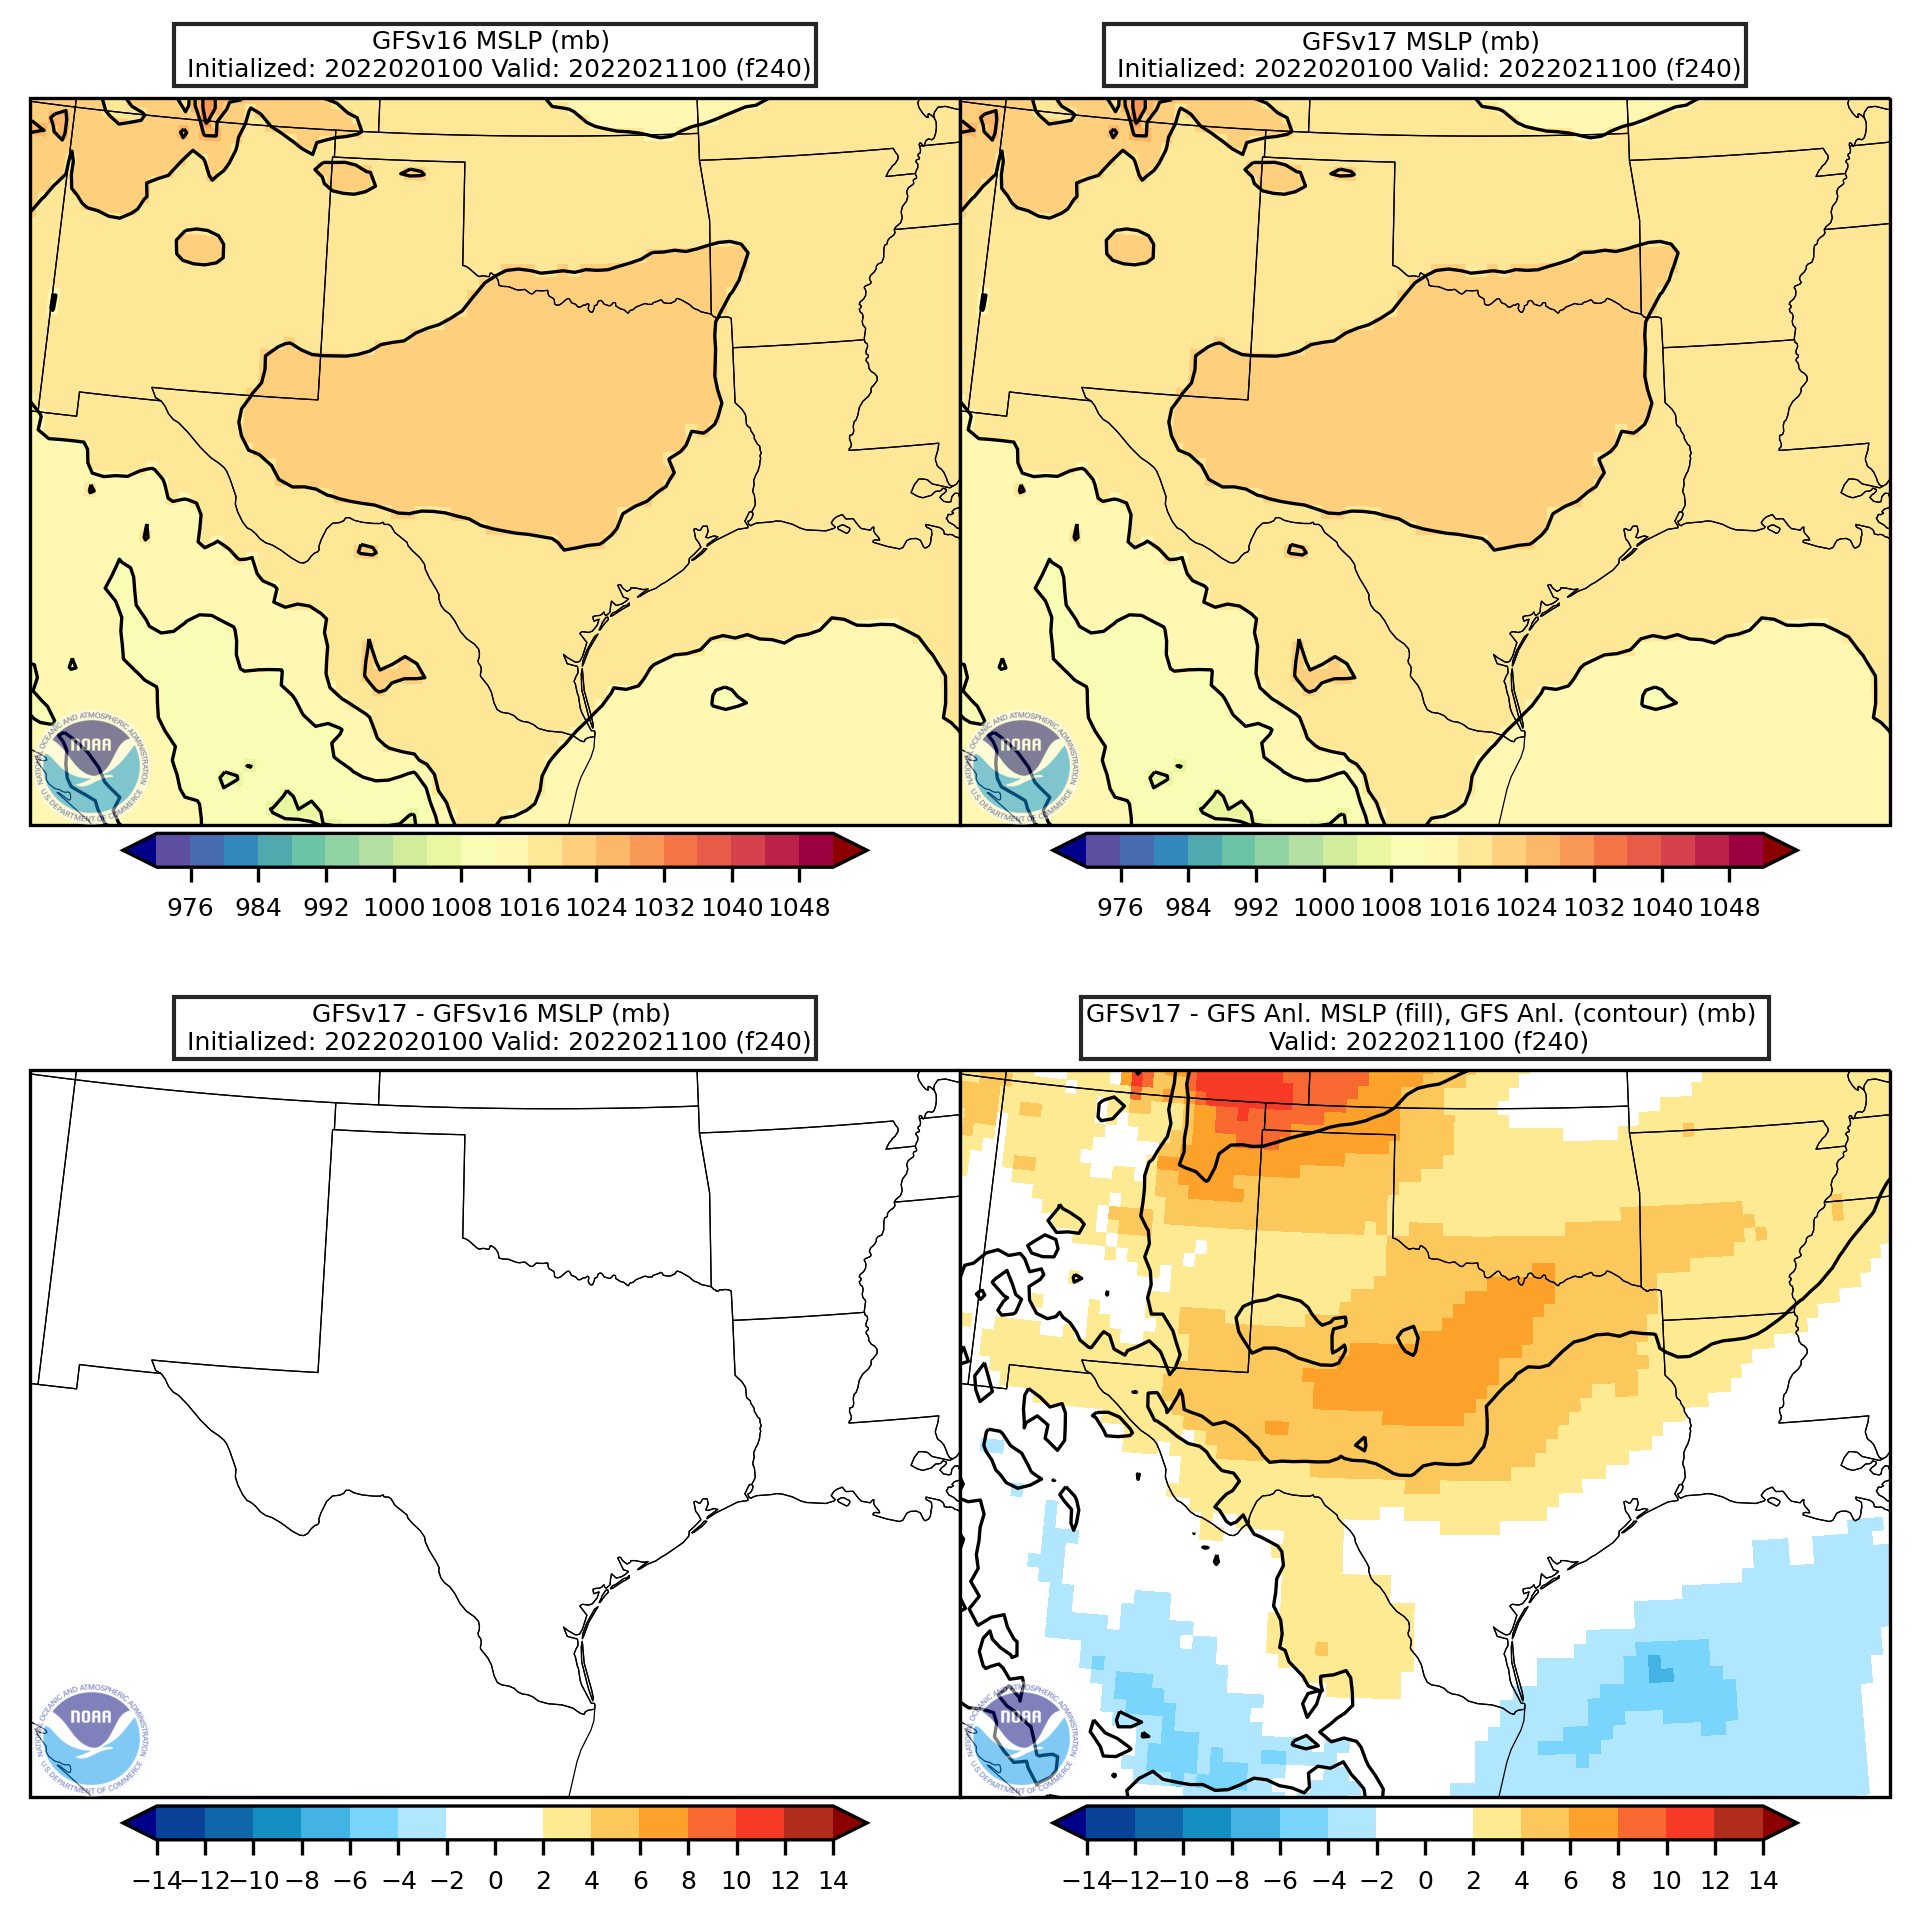
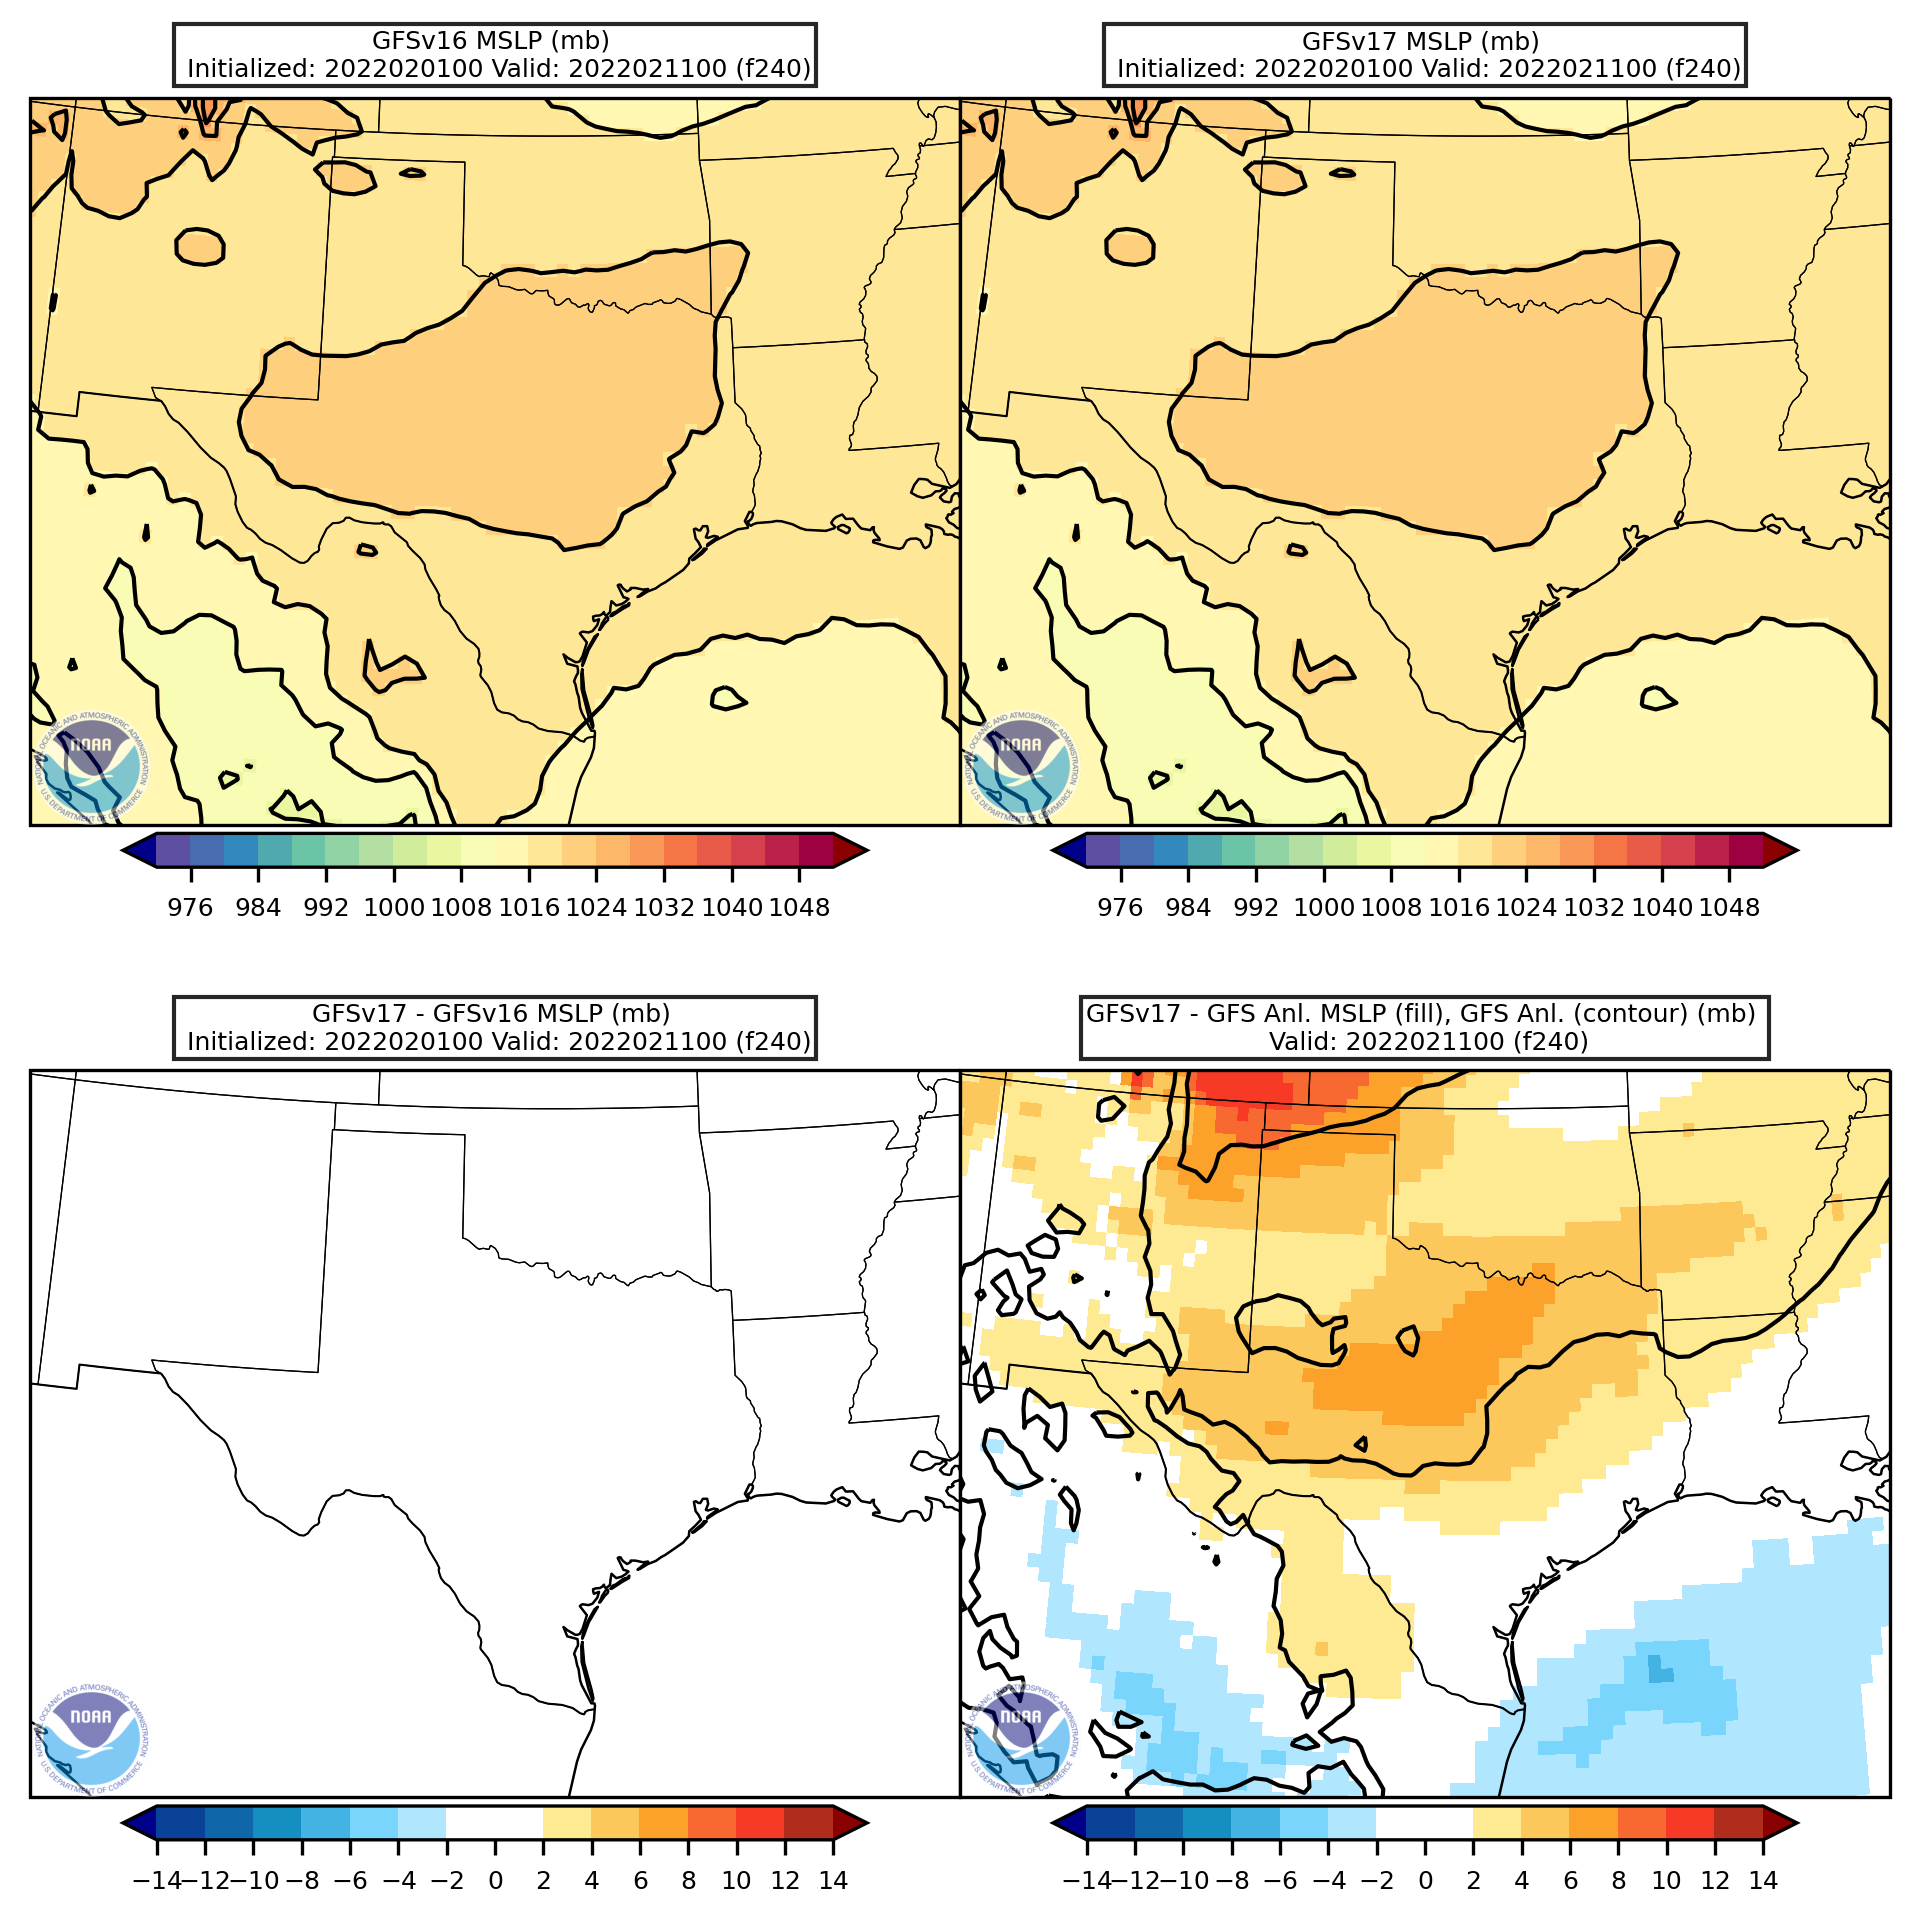
Updated thickness of coastlines and borders in all domains

diff --git a/plot_maps/plot_gfs_slp_4panel.py b/plot_maps/plot_gfs_slp_4panel.py
@@ -455,38 +455,38 @@ def create_figure():
 #  ax1.add_feature(states)
 #  ax1.add_feature(borders)
 #  ax1.add_feature(coastlines)
-  ax1.add_feature(cfeature.LAND.with_scale('50m'),facecolor='lightgray',edgecolor='face',linewidth=fline_wd) #Fill continents
-  ax1.add_feature(cfeature.LAKES.with_scale('50m'),facecolor='lightblue',edgecolor='face',linewidth=fline_wd) #Fill lakes
-  ax1.add_feature(cfeature.STATES.with_scale('50m'),linewidths=0.5,linestyle='solid',edgecolor='k',linewidth=fline_wd,zorder=4)
-  ax1.add_feature(cfeature.BORDERS.with_scale('50m'),linewidths=1.0,linestyle='solid',edgecolor='k',linewidth=fline_wd,zorder=4)
-  ax1.add_feature(cfeature.COASTLINE.with_scale('50m'),linewidths=1.0,linestyle='solid',edgecolor='k',linewidth=fline_wd,zorder=4)
+  ax1.add_feature(cfeature.LAND.with_scale('50m'),facecolor='lightgray',edgecolor='face') #Fill continents
+  ax1.add_feature(cfeature.LAKES.with_scale('50m'),facecolor='lightblue',edgecolor='face') #Fill lakes
+  ax1.add_feature(cfeature.STATES.with_scale('50m'),linewidths=0.3,linestyle='solid',edgecolor='k',zorder=4)
+  ax1.add_feature(cfeature.BORDERS.with_scale('50m'),linewidths=0.5,linestyle='solid',edgecolor='k',zorder=4)
+  ax1.add_feature(cfeature.COASTLINE.with_scale('50m'),linewidths=0.6,linestyle='solid',edgecolor='k',zorder=4)
 #  ax2.add_feature(lakes)
 #  ax2.add_feature(states)
 #  ax2.add_feature(borders)
 #  ax2.add_feature(coastlines)
-  ax2.add_feature(cfeature.LAND.with_scale('50m'),facecolor='lightgray',edgecolor='face',linewidth=fline_wd) #Fill continents
-  ax2.add_feature(cfeature.LAKES.with_scale('50m'),facecolor='lightblue',edgecolor='face',linewidth=fline_wd) #Fill lakes
-  ax2.add_feature(cfeature.STATES.with_scale('50m'),linewidths=0.5,linestyle='solid',edgecolor='k',linewidth=fline_wd,zorder=4)
-  ax2.add_feature(cfeature.BORDERS.with_scale('50m'),linewidths=1.0,linestyle='solid',edgecolor='k',linewidth=fline_wd,zorder=4)
-  ax2.add_feature(cfeature.COASTLINE.with_scale('50m'),linewidths=1.0,linestyle='solid',edgecolor='k',linewidth=fline_wd,zorder=4)
+  ax2.add_feature(cfeature.LAND.with_scale('50m'),facecolor='lightgray',edgecolor='face') #Fill continents
+  ax2.add_feature(cfeature.LAKES.with_scale('50m'),facecolor='lightblue',edgecolor='face') #Fill lakes
+  ax2.add_feature(cfeature.STATES.with_scale('50m'),linewidths=0.3,linestyle='solid',edgecolor='k',zorder=4)
+  ax2.add_feature(cfeature.BORDERS.with_scale('50m'),linewidths=0.5,linestyle='solid',edgecolor='k',zorder=4)
+  ax2.add_feature(cfeature.COASTLINE.with_scale('50m'),linewidths=0.6,linestyle='solid',edgecolor='k',zorder=4)
 #  ax3.add_feature(lakes)
 #  ax3.add_feature(states)
 #  ax3.add_feature(borders)
 #  ax3.add_feature(coastlines)
-  ax3.add_feature(cfeature.LAND.with_scale('50m'),facecolor='lightgray',edgecolor='face',linewidth=fline_wd) #Fill continents
-  ax3.add_feature(cfeature.LAKES.with_scale('50m'),facecolor='lightblue',edgecolor='face',linewidth=fline_wd) #Fill lakes
-  ax3.add_feature(cfeature.STATES.with_scale('50m'),linewidths=0.5,linestyle='solid',edgecolor='k',linewidth=fline_wd,zorder=4)
-  ax3.add_feature(cfeature.BORDERS.with_scale('50m'),linewidths=1.0,linestyle='solid',edgecolor='k',linewidth=fline_wd,zorder=4)
-  ax3.add_feature(cfeature.COASTLINE.with_scale('50m'),linewidths=1.0,linestyle='solid',edgecolor='k',linewidth=fline_wd,zorder=4)
+  ax3.add_feature(cfeature.LAND.with_scale('50m'),facecolor='lightgray',edgecolor='face') #Fill continents
+  ax3.add_feature(cfeature.LAKES.with_scale('50m'),facecolor='lightblue',edgecolor='face') #Fill lakes
+  ax3.add_feature(cfeature.STATES.with_scale('50m'),linewidths=0.3,linestyle='solid',edgecolor='k',zorder=4)
+  ax3.add_feature(cfeature.BORDERS.with_scale('50m'),linewidths=0.5,linestyle='solid',edgecolor='k',zorder=4)
+  ax3.add_feature(cfeature.COASTLINE.with_scale('50m'),linewidths=0.6,linestyle='solid',edgecolor='k',zorder=4)
 #  ax4.add_feature(lakes)
 #  ax4.add_feature(states)
 #  ax4.add_feature(borders)
 #  ax4.add_feature(coastlines)
-  ax4.add_feature(cfeature.LAND.with_scale('50m'),facecolor='lightgray',edgecolor='face',linewidth=fline_wd) #Fill continents
-  ax4.add_feature(cfeature.LAKES.with_scale('50m'),facecolor='lightblue',edgecolor='face',linewidth=fline_wd) #Fill lakes
-  ax4.add_feature(cfeature.STATES.with_scale('50m'),linewidths=0.5,linestyle='solid',edgecolor='k',linewidth=fline_wd,zorder=4)
-  ax4.add_feature(cfeature.BORDERS.with_scale('50m'),linewidths=1.0,linestyle='solid',edgecolor='k',linewidth=fline_wd,zorder=4)
-  ax4.add_feature(cfeature.COASTLINE.with_scale('50m'),linewidths=1.0,linestyle='solid',edgecolor='k',linewidth=fline_wd,zorder=4)
+  ax4.add_feature(cfeature.LAND.with_scale('50m'),facecolor='lightgray',edgecolor='face') #Fill continents
+  ax4.add_feature(cfeature.LAKES.with_scale('50m'),facecolor='lightblue',edgecolor='face') #Fill lakes
+  ax4.add_feature(cfeature.STATES.with_scale('50m'),linewidths=0.3,linestyle='solid',edgecolor='k',zorder=4)
+  ax4.add_feature(cfeature.BORDERS.with_scale('50m'),linewidths=0.5,linestyle='solid',edgecolor='k',zorder=4)
+  ax4.add_feature(cfeature.COASTLINE.with_scale('50m'),linewidths=0.6,linestyle='solid',edgecolor='k',zorder=4)
 
 
   # Map/figure has been set up here, save axes instances for use again later
@@ -526,13 +526,13 @@ def plot_set_1():
   # Wind barb density settings
   if dom == 'conus':
     skip = 100
-    thick = 0.6
+    thick = 0.75
   elif dom == 'northeast':
     skip = 40
-    thick = 0.8
+    thick = 1.0
   else:
     skip = 30
-    thick = 0.8
+    thick = 1.0
   barblength = 3.5
 
   units = 'mb'
